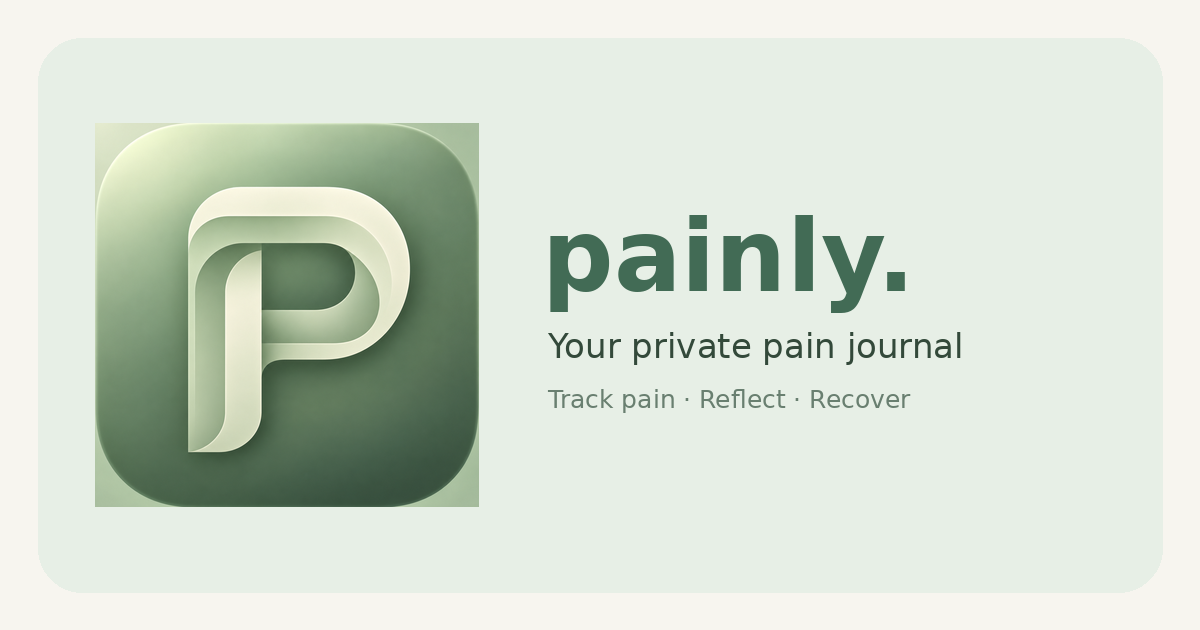
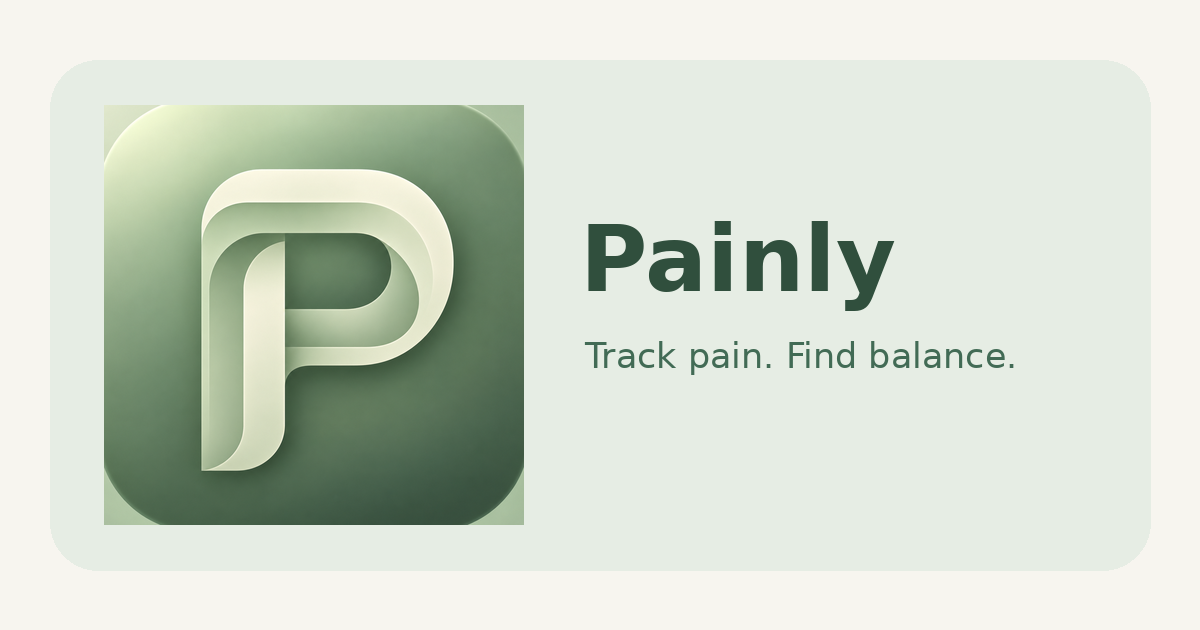
Add files via upload

Changed region(s): [[0.0617, 0.1508, 0.8325, 0.8444]]

diff --git a/index.html b/index.html
@@ -14,17 +14,17 @@
 <meta property="og:site_name" content="Painly">
 <meta property="og:title" content="Painly — Your pain journal">
 <meta property="og:description" content="Track how you feel. Reflect freely. Move at your own pace.">
-<meta property="og:image" content="./share-preview.png">
+<meta property="og:image" content="./share-preview.png?v=6.1">
 <meta name="twitter:card" content="summary_large_image">
 <meta http-equiv="Content-Security-Policy" content="default-src 'self' data:; script-src 'self' 'unsafe-inline'; style-src 'self' 'unsafe-inline'; img-src 'self' data:; connect-src 'none'; object-src 'none'; base-uri 'none'; form-action 'none'">
 <link rel="manifest" href="./manifest.webmanifest">
-<link rel="icon" type="image/png" href="./icons/icon-192.png">
-<link rel="apple-touch-icon" sizes="180x180" href="./icons/apple-touch-icon.png">
+<link rel="icon" type="image/png" href="./icons/icon-192.png?v=6.1">
+<link rel="apple-touch-icon" sizes="180x180" href="./icons/apple-touch-icon.png?v=6.1">
 <link rel="stylesheet" href="./styles.css">
 <title>Painly — Pain Journal & JournalSpeak</title>
 </head>
 <body>
-<header class="topbar"><div class="topbar-inner"><div class="brand"><img class="brand-image" src="./icons/icon-192.png" alt=""><div><div class="brand-title">painly<span style="color:var(--sage)">.</span></div><div class="brand-sub">A little more in tune with yourself</div></div></div><span class="private-pill">◈ Private · on this device</span></div></header>
+<header class="topbar"><div class="topbar-inner"><div class="brand"><img class="brand-image" src="./icons/icon-192.png?v=6.1" alt=""><div><div class="brand-title">painly<span style="color:var(--sage)">.</span></div><div class="brand-sub">A little more in tune with yourself</div></div></div><span class="private-pill">◈ Private · on this device</span></div></header>
 <main class="shell">
 <section class="hero"><span id="eyebrow" class="eyebrow">PAIN JOURNAL</span><h1 id="pageTitle">How does your body feel?</h1><p id="pageDescription">A calmer way to keep track of your pain, with extra attention to your knees.</p></section>
 <nav class="tabs" aria-label="Main sections"><button type="button" class="tab active" data-tab="log">Log Pain</button><button type="button" class="tab" data-tab="journal">JournalSpeak</button><button type="button" class="tab" data-tab="history">History & Progress</button><button type="button" class="tab" data-tab="settings">Settings</button></nav>

diff --git a/sw.js b/sw.js
@@ -1,4 +1,4 @@
-const CACHE = 'painly-v6-0';
+const CACHE = 'painly-v6-1-icons';
 const ASSETS = ['./','./index.html','./app.js','./styles.css','./manifest.webmanifest','./icons/icon-192.png','./icons/icon-512.png','./icons/apple-touch-icon.png','./share-preview.png'];
 self.addEventListener('install',e => e.waitUntil(caches.open(CACHE).then(c => c.addAll(ASSETS)).then(() => self.skipWaiting())));
 self.addEventListener('activate',e => e.waitUntil(caches.keys().then(keys => Promise.all(keys.filter(k => k!==CACHE && /^(painly-|my-pain-|my-knee-|mijn-knie-|mijn-gym-)/.test(k)).map(k => caches.delete(k)))).then(() => self.clients.claim())));
